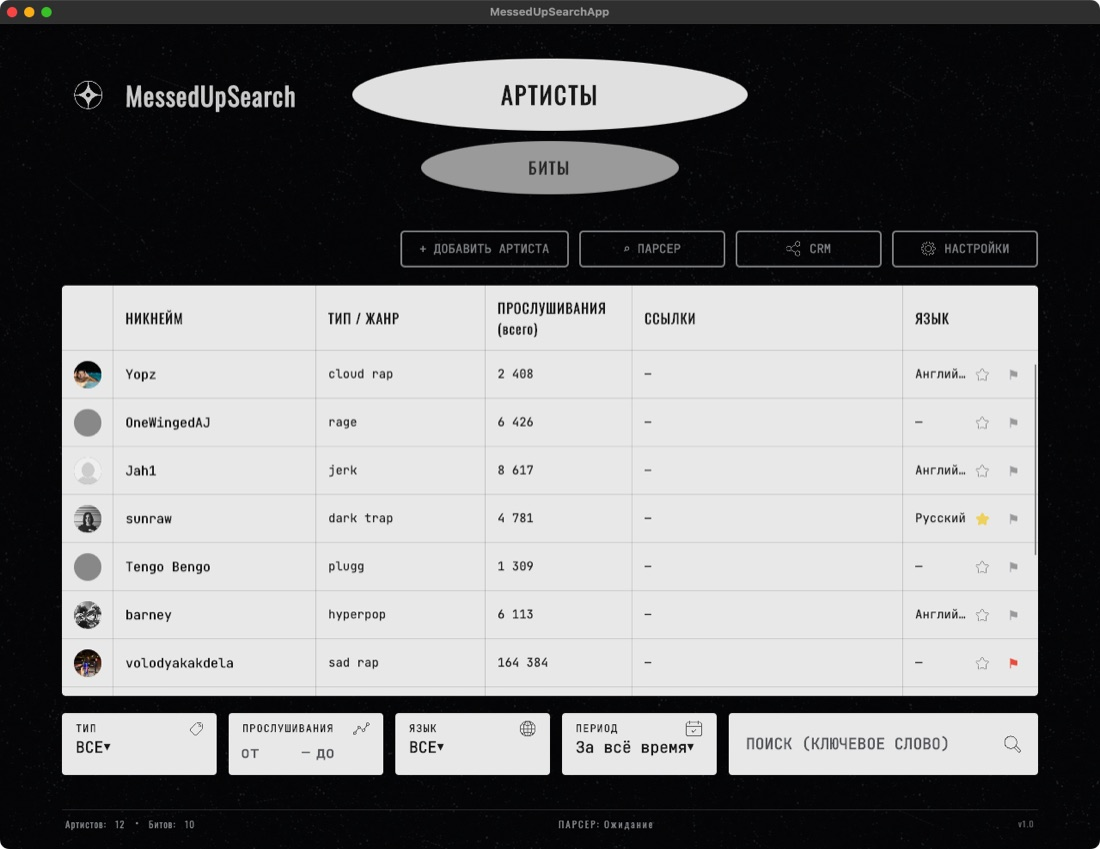
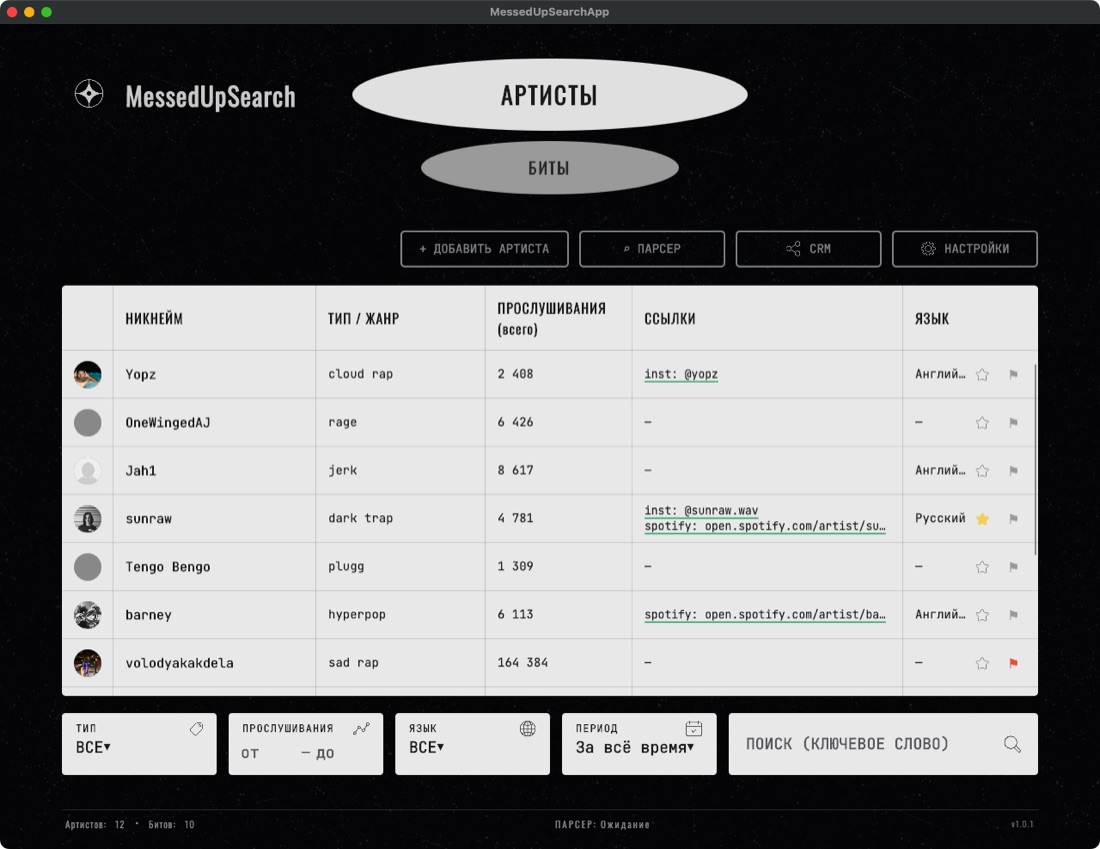
v1.0.1: версия, README и скриншоты под новые возможности

diff --git a/MessedUpSearchA/ViewModels/MainWindowViewModel.cs b/MessedUpSearchA/ViewModels/MainWindowViewModel.cs
@@ -59,7 +59,7 @@ public partial class MainWindowViewModel : ViewModelBase
 
     public IReadOnlyList<string> LanguageOptions { get; } = new[] { "English", "Русский" };
 
-    public string AppVersion => "v1.0";
+    public string AppVersion => "v1.0.1";
 
     /// <summary>Подпись в футере: «ожидание» или «идёт поиск» (окно парсера можно закрыть — поиск идёт дальше).</summary>
     public string ParserStatus =>

diff --git a/README.md b/README.md
@@ -28,7 +28,7 @@
 Открой бит, нажми **АНАЛИЗ** — через секунду приложение покажет:
 
 - **«звучит как»** — трёх крупных артистов, на чей стиль похож бит;
-- **кому предложить** — десять андеграунд-артистов (от 1 000 до 300 000 прослушиваний) из базы на 650+ рэперов с SoundCloud и Audius. У каждого: ▶ послушать его трек прямо в приложении, ＋ добавить к себе в базу, ↗ открыть профиль и написать.
+- **кому предложить** — десять андеграунд-артистов (от 1 000 до 300 000 прослушиваний) из базы на 650+ рэперов с SoundCloud и Audius. У каждого: ▶ послушать тот его трек, что **ближе всего к твоему биту** — сразу слышно, почему он в списке; ＋ добавить к себе в базу; ↗ открыть профиль и написать.
 
 <p align="center"><img src="docs/ru-analyze.jpg" alt="Анализ бита" width="90%"></p>
 
@@ -42,7 +42,7 @@
 
 - Добавляй биты по одному (WAV / MP3) или импортируй целую папку — повторный импорт не создаёт дубликатов.
 - Название, жанр, BPM, тональность и статус: **потенциал**, **фри** или **продан** (с типом лицензии).
-- Фильтры по жанру, BPM, тональности, дате и поиск по названию — всё мгновенно.
+- Фильтры по жанру, BPM, тональности, дате и поиск по названию — всё мгновенно. Клик по заголовку столбца сортирует: ▼ → ▲ → как было.
 - Встроенный плеер с волной: ▶ в строке бита, перемотка кликом по волне, предыдущий / следующий бит, громкость запоминается. Пробел — пауза, ← / → — перемотка.
 
 <p align="center"><img src="docs/ru-player.jpg" alt="Библиотека битов и плеер" width="90%"></p>
@@ -69,6 +69,7 @@
 ## Мелочи
 
 - Русский и английский интерфейс, переключается сразу, без перезапуска.
+- Плавные анимации по принципам Apple и несколько тихих звуков (анализ готов, бит отправлен, ★, парсер закончил) — и то и другое выключается в настройках; системное «Уменьшить движение» учитывается.
 - Все данные хранятся локально на твоём компьютере. В сеть приложение ходит только за поиском артистов, их треками для плеера и один раз — за базой андеграунд-артистов.
 
 <p align="center"><img src="docs/ru-settings.jpg" alt="Настройки" width="70%"></p>

diff --git a/README.en.md b/README.en.md
@@ -28,7 +28,7 @@ An app for beatmakers: all your beats in one table, a roster of underground arti
 Open a beat, hit **ANALYZE** — a second later the app shows:
 
 - **"sounds like"** — three big artists whose style the beat resembles;
-- **who to pitch** — ten underground artists (1,000 to 300,000 plays) from a base of 650+ rappers on SoundCloud and Audius. Each one has ▶ play their track right in the app, ＋ add to your roster, ↗ open the profile to reach out.
+- **who to pitch** — ten underground artists (1,000 to 300,000 plays) from a base of 650+ rappers on SoundCloud and Audius. Each one has ▶ play the track of theirs that is **closest to your beat** — you hear right away why they made the list; ＋ add to your roster; ↗ open the profile to reach out.
 
 <p align="center"><img src="docs/en-analyze.jpg" alt="Beat analysis" width="90%"></p>
 
@@ -42,7 +42,7 @@ Everything the analysis finds is saved: an artist's card shows which of your bea
 
 - Add beats one by one (WAV / MP3) or import a whole folder — re-importing never creates duplicates.
 - Name, genre, BPM, key and status: **potential**, **free** or **sold** (with license type).
-- Filter by genre, BPM, key, date and search by name — all instant.
+- Filter by genre, BPM, key, date and search by name — all instant. Click a column header to sort: ▼ → ▲ → back.
 - Built-in player with a waveform: ▶ in the beat row, click the waveform to seek, previous / next beat, volume is remembered. Space pauses, ← / → seek.
 
 <p align="center"><img src="docs/en-player.jpg" alt="Beat library and player" width="90%"></p>
@@ -69,6 +69,7 @@ Everything the analysis finds is saved: an artist's card shows which of your bea
 ## Small things
 
 - Russian and English interface, switches instantly, no restart.
+- Smooth animations following Apple's motion principles and a few quiet sounds (analysis done, beat sent, ★, parser finished) — both can be turned off in Settings; the system Reduce Motion setting is respected.
 - All data stays on your computer. The app only goes online to search for artists, stream their tracks in the player and, once, to fetch the underground artist base.
 
 <p align="center"><img src="docs/en-settings.jpg" alt="Settings" width="70%"></p>
